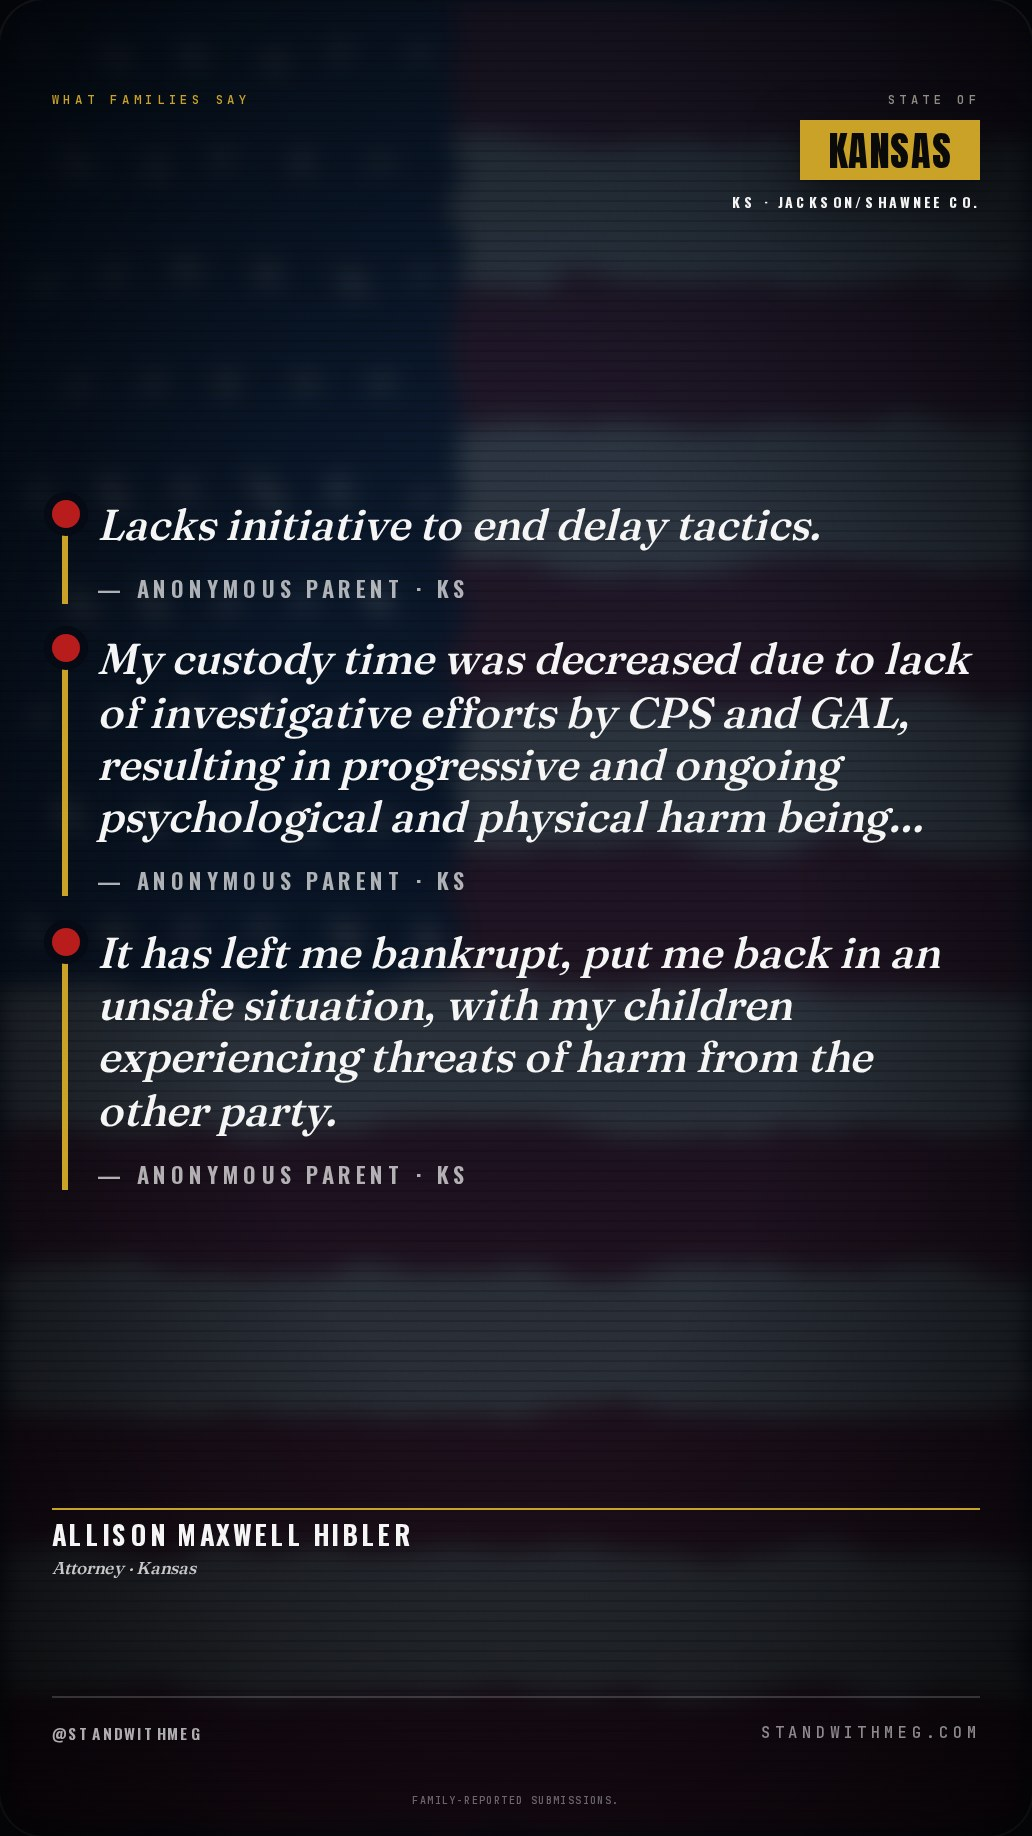
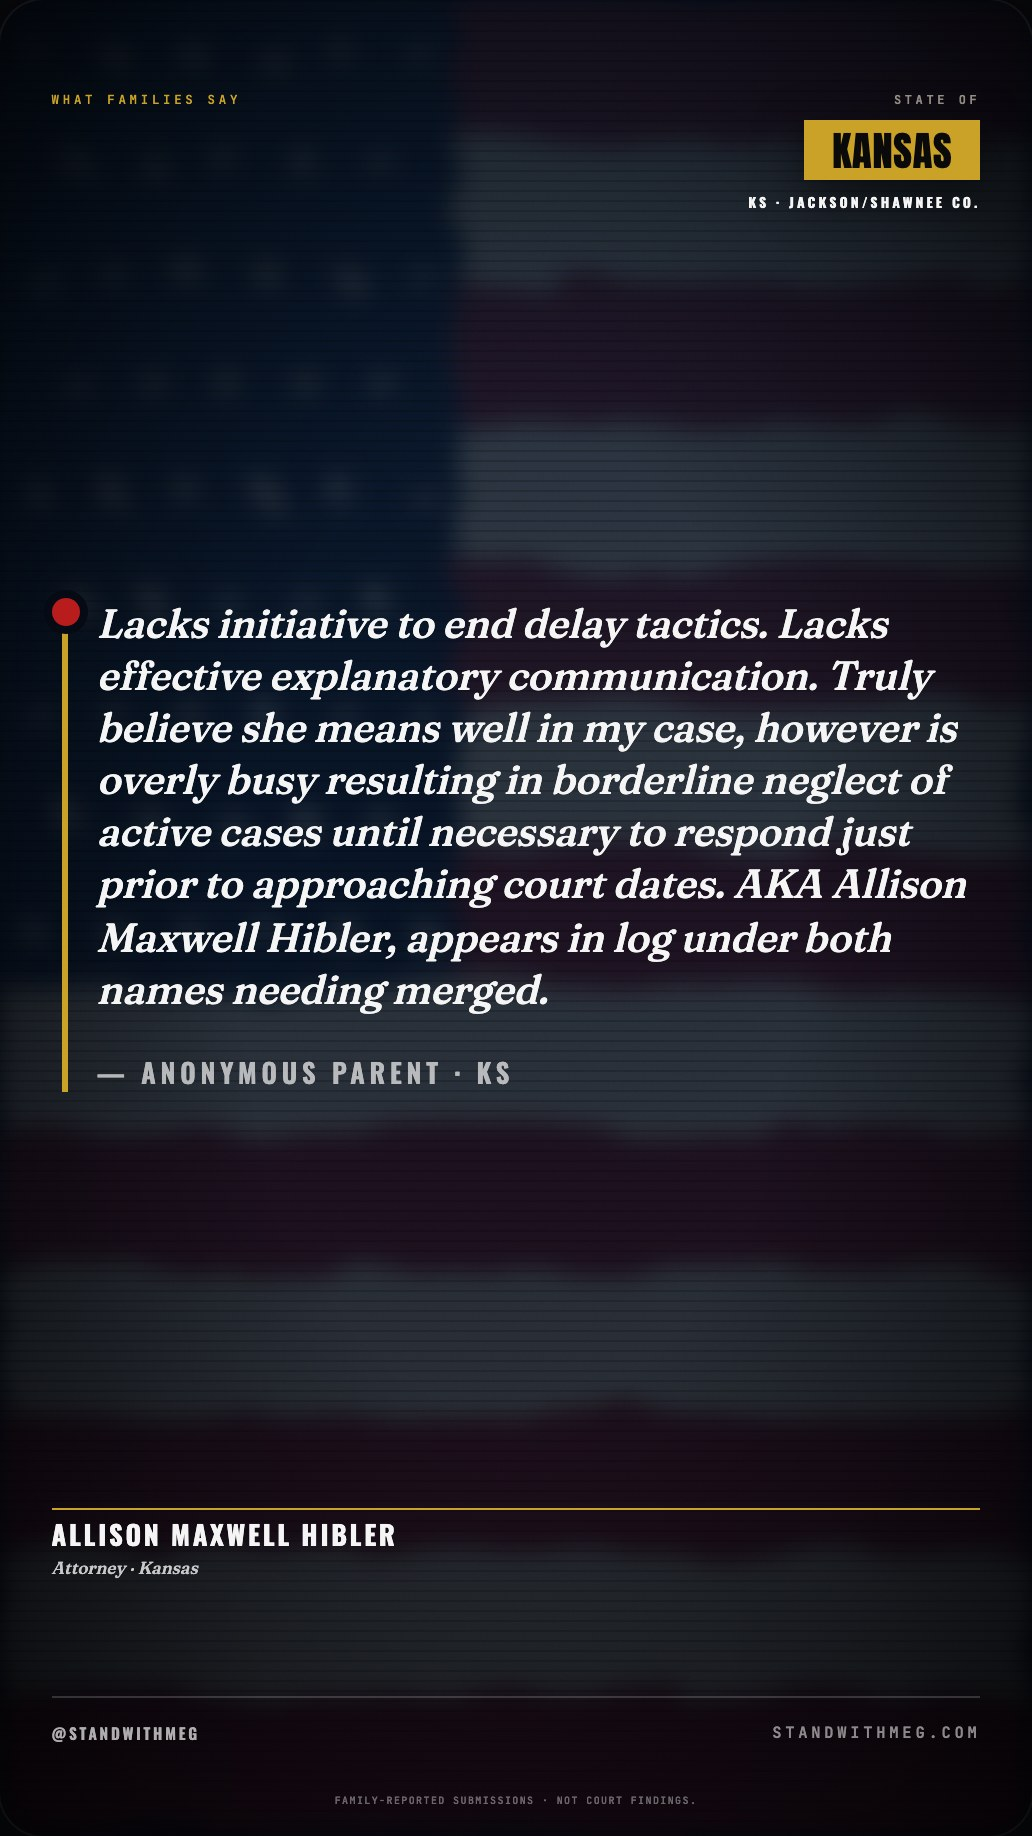
deploy(actors): wire photo for Allison Maxwell Hibler (KS)

diff --git a/public/court-actors/ks/alison_hibler/share.html b/public/court-actors/ks/alison_hibler/share.html
@@ -532,21 +532,6 @@ html,body { background:#06070A; color:var(--white); font-family:Inter,system-ui,
 .review li { margin:8px 0; }
 
 @media (min-width:760px) { .share-scroll { padding-top:28px; } }
-/* Sponsor spotlight slot */
-.sponsor-slot { width:min(100%,540px); margin:14px auto 0; padding:0 12px; }
-.sponsor-slot-label { font-family:'JetBrains Mono',monospace; font-size:11px; letter-spacing:.16em; text-transform:uppercase; color:var(--gold); margin-bottom:8px; }
-.sponsor-card { background:linear-gradient(180deg,#ffffff,#f4f6f9); border-radius:14px; padding:16px; color:#15202b; box-shadow:0 16px 36px -16px rgba(0,0,0,.55); }
-.sponsor-card img { max-height:44px; width:auto; margin-bottom:10px; display:block; }
-.sponsor-card .services { font-size:13px; font-weight:800; }
-.sponsor-card .location { font-size:11px; color:#5b6675; margin-top:2px; }
-.sponsor-card .divider { height:1px; background:#e6e9ee; margin:12px 0; }
-.sponsor-card .phone { font-size:13px; font-weight:800; }
-.sponsor-card .tagline { font-size:11px; color:#7a8493; font-style:italic; margin-top:2px; }
-.sponsor-card .cta { display:inline-block; padding:8px 14px; border-radius:8px; font-size:12px; font-weight:800; color:#fff; text-decoration:none; }
-.sponsor-empty { display:block; border:2px dashed rgba(201,162,39,.4); border-radius:14px; padding:16px; text-align:center; text-decoration:none; }
-.sponsor-empty .eyebrow { font-size:10px; font-weight:800; text-transform:uppercase; letter-spacing:.14em; color:rgba(245,245,245,.45); }
-.sponsor-empty .headline { font-size:14px; font-weight:800; color:var(--gold); margin-top:6px; }
-.sponsor-empty .sub { font-size:11px; color:rgba(245,245,245,.5); margin-top:2px; }
 </style>
 </head>
 <body>
@@ -560,17 +545,10 @@ html,body { background:#06070A; color:var(--white); font-family:Inter,system-ui,
   </button>
 </div>
 <div class="bulk-progress" id="bulk-progress"></div>
-<section class="sponsor-slot" id="sponsor-slot" data-state="KS">
-  <a href="/sponsor" target="_blank" rel="noopener noreferrer" class="sponsor-empty">
-    <div class="eyebrow">Sponsor this spotlight</div>
-    <div class="headline">Your business here</div>
-    <div class="sub">Become a sponsor →</div>
-  </a>
-</section>
 <main class="share-scroll">
 <section class="phone-frame">
 <article class="frame frame-image" id="frame-01">
-  <img class="frame-img" src="frame-01.jpg?v=b8ededf92f" alt="Allison Maxwell Hibler share slide 1 of 7">
+  <img class="frame-img" src="frame-01.jpg" alt="Allison Maxwell Hibler share slide 1 of 7">
 </article>
 
 <div class="frame-actions" aria-label="Frame 1 actions">
@@ -580,7 +558,7 @@ html,body { background:#06070A; color:var(--white); font-family:Inter,system-ui,
 </section>
 <section class="phone-frame">
 <article class="frame frame-image" id="frame-02">
-  <img class="frame-img" src="frame-02.jpg?v=47bdd00c93" alt="Allison Maxwell Hibler share slide 2 of 7">
+  <img class="frame-img" src="frame-02.jpg" alt="Allison Maxwell Hibler share slide 2 of 7">
 </article>
 
 <div class="frame-actions" aria-label="Frame 2 actions">
@@ -590,7 +568,7 @@ html,body { background:#06070A; color:var(--white); font-family:Inter,system-ui,
 </section>
 <section class="phone-frame">
 <article class="frame frame-image" id="frame-03">
-  <img class="frame-img" src="frame-03.jpg?v=8d24d58383" alt="Allison Maxwell Hibler share slide 3 of 7">
+  <img class="frame-img" src="frame-03.jpg" alt="Allison Maxwell Hibler share slide 3 of 7">
 </article>
 
 <div class="frame-actions" aria-label="Frame 3 actions">
@@ -600,7 +578,7 @@ html,body { background:#06070A; color:var(--white); font-family:Inter,system-ui,
 </section>
 <section class="phone-frame">
 <article class="frame frame-image" id="frame-04">
-  <img class="frame-img" src="frame-04.jpg?v=69479ad560" alt="Allison Maxwell Hibler share slide 4 of 7">
+  <img class="frame-img" src="frame-04.jpg" alt="Allison Maxwell Hibler share slide 4 of 7">
 </article>
 
 <div class="frame-actions" aria-label="Frame 4 actions">
@@ -610,7 +588,7 @@ html,body { background:#06070A; color:var(--white); font-family:Inter,system-ui,
 </section>
 <section class="phone-frame">
 <article class="frame frame-image" id="frame-05">
-  <img class="frame-img" src="frame-05.jpg?v=f66f85ae16" alt="Allison Maxwell Hibler share slide 5 of 7">
+  <img class="frame-img" src="frame-05.jpg" alt="Allison Maxwell Hibler share slide 5 of 7">
 </article>
 
 <div class="frame-actions" aria-label="Frame 5 actions">
@@ -620,7 +598,7 @@ html,body { background:#06070A; color:var(--white); font-family:Inter,system-ui,
 </section>
 <section class="phone-frame">
 <article class="frame frame-image" id="frame-06">
-  <img class="frame-img" src="frame-06.jpg?v=f8ada4f576" alt="Allison Maxwell Hibler share slide 6 of 7">
+  <img class="frame-img" src="frame-06.jpg" alt="Allison Maxwell Hibler share slide 6 of 7">
 </article>
 
 <div class="frame-actions" aria-label="Frame 6 actions">
@@ -630,7 +608,7 @@ html,body { background:#06070A; color:var(--white); font-family:Inter,system-ui,
 </section>
 <section class="phone-frame">
 <article class="frame frame-image" id="frame-07">
-  <img class="frame-img" src="frame-07.jpg?v=6c5895c823" alt="Allison Maxwell Hibler share slide 7 of 7">
+  <img class="frame-img" src="frame-07.jpg" alt="Allison Maxwell Hibler share slide 7 of 7">
 </article>
 
 <div class="frame-actions" aria-label="Frame 7 actions">
@@ -700,7 +678,7 @@ html,body { background:#06070A; color:var(--white); font-family:Inter,system-ui,
   <div class="mf-url">STANDWITHMEG.COM</div>
 </div>
 
-  <div class="legal">Family-reported submissions.</div>
+  <div class="legal">Family-reported submissions · not court findings.</div>
 </article>
 
 
@@ -746,8 +724,8 @@ html,body { background:#06070A; color:var(--white); font-family:Inter,system-ui,
 </div>
 
   <div class="frame-tag">WHAT FAMILIES SAY</div>
-  <div class="f4-body f4-count-3">
-    <div class="f4-quote"><span class="f4-dot"></span><p class="f4-text">Lacks initiative to end delay tactics.</p><p class="f4-attr">— Anonymous parent · KS</p></div><div class="f4-quote"><span class="f4-dot"></span><p class="f4-text">My custody time was decreased due to lack of investigative efforts by CPS and GAL, resulting in progressive and ongoing psychological and physical harm being…</p><p class="f4-attr">— Anonymous parent · KS</p></div><div class="f4-quote"><span class="f4-dot"></span><p class="f4-text">It has left me bankrupt, put me back in an unsafe situation, with my children experiencing threats of harm from the other party.</p><p class="f4-attr">— Anonymous parent · KS</p></div>
+  <div class="f4-body f4-count-1 f4-solo--long">
+    <div class="f4-quote"><span class="f4-dot"></span><p class="f4-text">Lacks initiative to end delay tactics. Lacks effective explanatory communication. Truly believe she means well in my case, however is overly busy resulting in borderline neglect of active cases until necessary to respond just prior to approaching court dates. AKA Allison Maxwell Hibler, appears in log under both names needing merged.</p><p class="f4-attr">— Anonymous parent · KS</p></div>
   </div>
 
 <div class="actor-id-strip">
@@ -761,7 +739,7 @@ html,body { background:#06070A; color:var(--white); font-family:Inter,system-ui,
   <div class="mf-url">STANDWITHMEG.COM</div>
 </div>
 
-  <div class="legal">Family-reported submissions.</div>
+  <div class="legal">Family-reported submissions · not court findings.</div>
 </article>
 
 
@@ -838,7 +816,7 @@ html,body { background:#06070A; color:var(--white); font-family:Inter,system-ui,
   <div class="mf-url">STANDWITHMEG.COM</div>
 </div>
 
-  <div class="legal">Family-reported submissions.</div>
+  <div class="legal">Family-reported submissions · not court findings.</div>
 </article>
 
 
@@ -890,7 +868,7 @@ html,body { background:#06070A; color:var(--white); font-family:Inter,system-ui,
 
   <div class="frame-tag">COUNTED · PUBLIC RECORD</div>
   <div class="f5-stack">
-    <div class="f5-mega-number">5,443</div>
+    <div class="f5-mega-number">5,445</div>
     <div class="f5-mega-label">FAMILIES<br>NATIONWIDE</div>
     <div class="f5-italic">— and now global.</div>
     <div class="f5-pattern">
@@ -910,7 +888,7 @@ html,body { background:#06070A; color:var(--white); font-family:Inter,system-ui,
   <div class="mf-url">STANDWITHMEG.COM</div>
 </div>
 
-  <div class="legal">Family-reported submissions.</div>
+  <div class="legal">Family-reported submissions · not court findings.</div>
 </article>
 
 
@@ -977,7 +955,7 @@ html,body { background:#06070A; color:var(--white); font-family:Inter,system-ui,
   <div class="mf-url">STANDWITHMEG.COM</div>
 </div>
 
-  <div class="legal">Family-reported submissions.</div>
+  <div class="legal">Family-reported submissions · not court findings.</div>
 </article>
 
 
@@ -1029,7 +1007,7 @@ html,body { background:#06070A; color:var(--white); font-family:Inter,system-ui,
     <span class="gold">MEG.</span>
   </div>
   <div class="f7-cta-text">
-    Join over <b class="f7-count">5,443</b><br>
+    Join over <b class="f7-count">5,445</b><br>
     families nationwide &amp; global<br>
     exposing the truth.
   </div>
@@ -1037,7 +1015,7 @@ html,body { background:#06070A; color:var(--white); font-family:Inter,system-ui,
     <div class="f7-visit">VISIT</div>
     <div class="url-pill"><span class="dot"></span>STANDWITHMEG.COM</div>
   </div>
-  <div class="legal f7-legal">FAMILY-REPORTED SUBMISSIONS.</div>
+  <div class="legal f7-legal">FAMILY-REPORTED · NOT COURT FINDINGS</div>
 </article>
 
 </div>
@@ -1046,7 +1024,7 @@ html,body { background:#06070A; color:var(--white); font-family:Inter,system-ui,
   <details>
     <summary>Audit notes</summary>
     <p>Spec source: <code>New Final Post and Capcut template/export/alison_hibler</code></p>
-    <ul><li>public_family_count_api: no actors returned for state=&#x27;KS&#x27;</li></ul>
+    <ul><li>No unresolved fields recorded.</li></ul>
   </details>
 </aside>
 <script>
@@ -1326,44 +1304,6 @@ async function shareAllFrames() {
 
 document.getElementById('save-all-btn')?.addEventListener('click', saveAllFrames);
 document.getElementById('share-all-btn')?.addEventListener('click', shareAllFrames);
-// Sponsor spotlight slot — populated from /api/sponsors if an approved sponsor exists.
-(function() {
-  const slot = document.getElementById('sponsor-slot');
-  if (!slot) return;
-  const state = (slot.dataset.state || '').trim();
-  function esc(t) {
-    return String(t ?? '').replace(/&/g,'&amp;').replace(/</g,'&lt;').replace(/>/g,'&gt;').replace(/"/g,'&quot;');
-  }
-  function domainLabel(url) {
-    return url ? url.replace(/^https?:\/\//,'').replace(/\/$/,'') : 'Visit website';
-  }
-  function renderEmpty() {
-    slot.innerHTML = '<a href="/sponsor" target="_blank" rel="noopener noreferrer" class="sponsor-empty"><div class="eyebrow">Sponsor this spotlight</div><div class="headline">Your business here</div><div class="sub">Become a sponsor →</div></a>';
-  }
-  function renderCard(s) {
-    const accent = s.brand_color || '#1f93c7';
-    let html = '<div class="sponsor-card">';
-    if (s.logo_url) html += '<img src="' + esc(s.logo_url) + '" alt="' + esc(s.business_name) + '">';
-    if (s.services) html += '<div class="services">' + esc(s.services) + '</div>';
-    if (s.location_label) html += '<div class="location">' + esc(s.location_label) + '</div>';
-    html += '<div class="divider"></div><div style="display:flex;align-items:flex-end;justify-content:space-between;gap:12px;flex-wrap:wrap;">';
-    html += '<div>';
-    if (s.phone) html += '<div class="phone">' + esc(s.phone) + '</div>';
-    if (s.tagline) html += '<div class="tagline">' + esc(s.tagline) + '</div>';
-    html += '</div>';
-    if (s.website_url) html += '<a href="' + esc(s.website_url) + '" target="_blank" rel="noopener noreferrer" class="cta" style="background-color:' + esc(accent) + '">' + domainLabel(s.website_url) + '</a>';
-    html += '</div></div>';
-    slot.innerHTML = '<div class="sponsor-slot-label">Sponsored by</div>' + html;
-  }
-  fetch('/api/sponsors?placement=court_actor_spotlight&state=' + encodeURIComponent(state))
-    .then(r => r.json())
-    .then(d => {
-      const sponsors = Array.isArray(d && d.sponsors) ? d.sponsors : [];
-      const match = sponsors.find(x => x.slot === 'court_actor_spotlight') || sponsors[0];
-      if (match) renderCard(match); else renderEmpty();
-    })
-    .catch(() => renderEmpty());
-})();
 </script>
 </body>
 </html>
